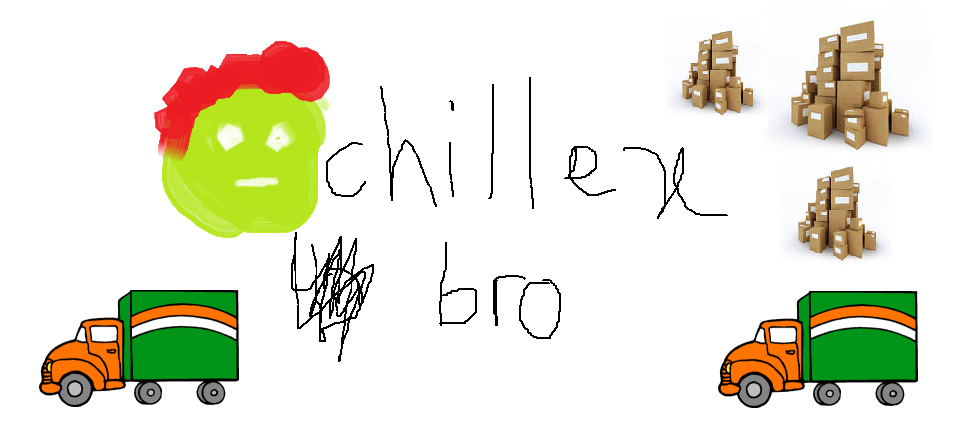
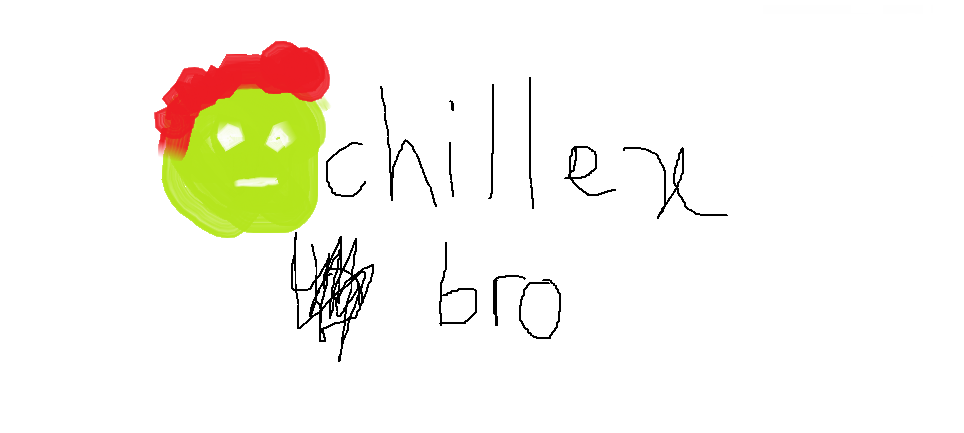
Sun Apr 21 20:25:29 +08 2019

diff --git a/app/static/style4.css b/app/static/style4.css
@@ -1,3 +1,3 @@
 body {
-    background-image: url(images/chillexbro.png);
+    background-image: url(images/chillexbro3.png);
 }
